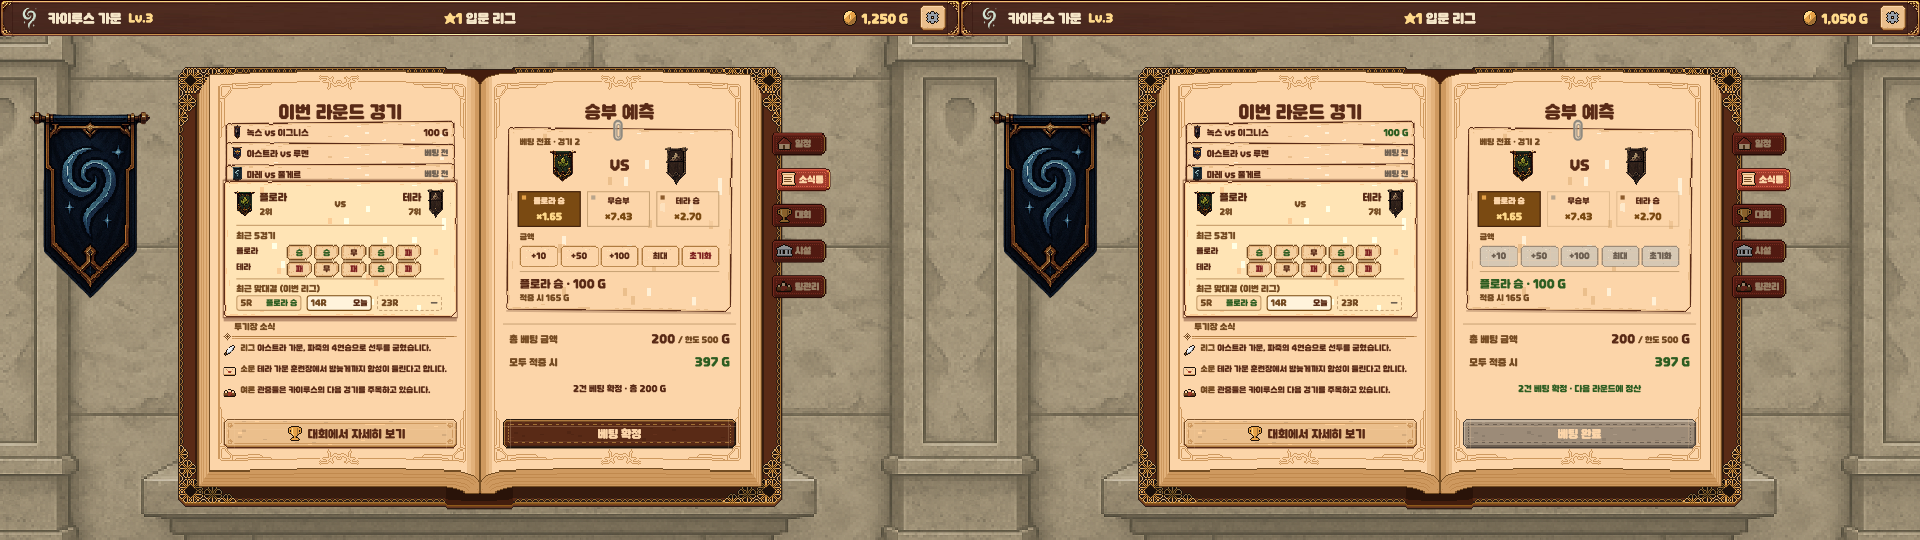
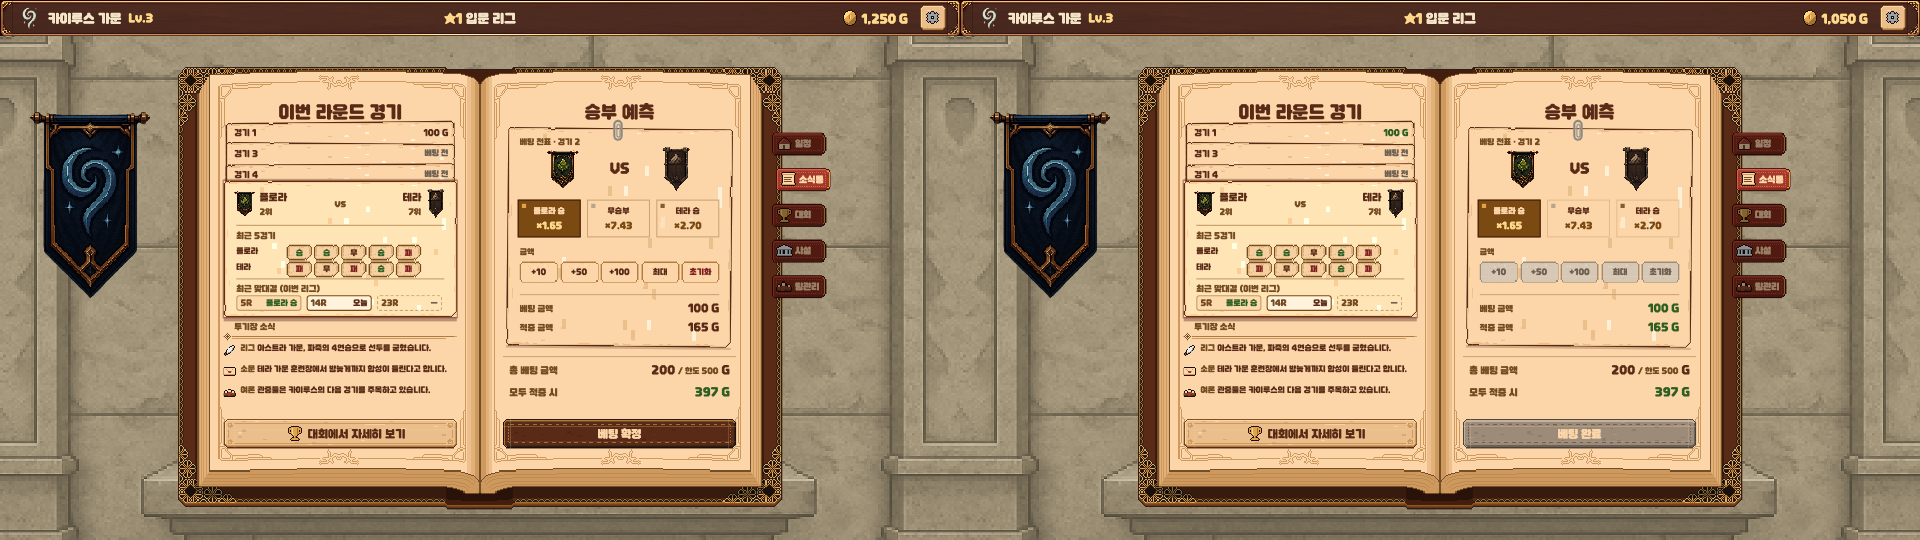
Docs: 소식통 시안 - 전표 확대·요약 두 줄, 합계 버튼 위로, 확정 문구 삭제, 카드 머리 경기 번호로

diff --git a/Docs/handover-mail/mockups/mail.html b/Docs/handover-mail/mockups/mail.html
@@ -101,7 +101,7 @@ function draw(){
   back.forEach((i,k)=>{const y=108+k*20,mm=M[i],q=trip(probs(mm));
     N('COLLO:02_panels/tooltip',L0+2,y,218,40,6,`transform:rotate(${[-0.6,0.5,-0.3][k]}deg);box-shadow:0 1px 0 rgba(89,42,22,.35)`);
     H+=`<div class="hit" data-i="${i}" style="left:${L0}px;top:${y}px;width:222px;height:20px"></div>`;
-    P(TEAM(mm[0]),L0+8,y+3,10,14,'object-fit:contain');T(L0+22,y+10,`${nm[mm[0]]} vs ${nm[mm[1]]}`,7.6,'ink','lm');
+    T(L0+10,y+10,(EN_?'Match ':'경기 ')+(i+1),7.6,'ink','lm');
     if(full(i)) T(L1-8,y+10,draft[i].stake+' G',7.6,confirmed?'win':'ink','rm'); else T(L1-8,y+10,EN_?'Open':'베팅 전',7.14,'gray','rm');});
   CL=anim=='card'?'cardin':'';
   const cy=164;N('COLLO:02_panels/tooltip',L0,cy,222,130,6,'filter:brightness(1.07);outline:1px solid rgba(89,42,22,.55);box-shadow:0 4px 0 rgba(62,17,9,.35),0 -2px 0 rgba(89,42,22,.18)');
@@ -137,36 +137,34 @@ function draw(){
   // ===== 오른쪽: 클립으로 꽂은 베팅 전표 (높이 축소) + 라운드 확정
   T(421,91,EN_?'Match Prediction':'승부 예측',16,'ink','ma');
   CL=anim=='card'?'tkin':'';
-  const ty=114, th=174, lock=confirmed;
+  const ty=114, th=208, lock=confirmed;
   N('COLLO:02_panels/tooltip',R0+4,ty,214,th,6,'transform:rotate(0.6deg);box-shadow:0 2px 0 rgba(89,42,22,.25)');
   T(R0+16,ty+10,(EN_?'BET SLIP · Match ':'베팅 전표 · 경기 ')+(mi+1),7.14,'ink2');
-  P(TEAM(a),R0+44,ty+18,26,36,'object-fit:contain');P(TEAM(b),R1-70,ty+18,26,36,'object-fit:contain');T(421,ty+36,'VS',12,'ink','mm');
-  [0,1,2].forEach(i=>{const x=R0+14+i*66,y=ty+60,sel=pick==i;BOX(x,y,60,34,sel?'#7a4a12':'rgba(252,213,169,.55)','border:1px solid '+(sel?'#3e1f0c':'#c9a476')+';box-sizing:border-box'+(lock&&!sel?';opacity:.5':''));
-    BOX(x+4,y+4,4,4,COL[i]);T(x+30,y+10,lab[i],7.14,sel?'cream':'ink','mm');T(x+30,y+24,'×'+od[i].toFixed(2),8,sel?'cream':'ink','mm',sel?'color:#ffd98a':'color:#7a4a12');
-    if(!lock)H+=`<div class="hit" data-pick="${i}" style="left:${x}px;top:${y}px;width:60px;height:34px"></div>`;});
+  P(TEAM(a),R0+42,ty+18,30,42,'object-fit:contain');P(TEAM(b),R1-72,ty+18,30,42,'object-fit:contain');T(421,ty+39,'VS',12,'ink','mm');
+  [0,1,2].forEach(i=>{const x=R0+14+i*66,y=ty+68,sel=pick==i;BOX(x,y,60,36,sel?'#7a4a12':'rgba(252,213,169,.55)','border:1px solid '+(sel?'#3e1f0c':'#c9a476')+';box-sizing:border-box'+(lock&&!sel?';opacity:.5':''));
+    BOX(x+4,y+4,4,4,COL[i]);T(x+30,y+11,lab[i],7.14,sel?'cream':'ink','mm');T(x+30,y+25,'×'+od[i].toFixed(2),8,sel?'cream':'ink','mm',sel?'color:#ffd98a':'color:#7a4a12');
+    if(!lock)H+=`<div class="hit" data-pick="${i}" style="left:${x}px;top:${y}px;width:60px;height:36px"></div>`;});
   const LIMIT=500, others=[0,1,2,3].filter(k=>k!=mi&&full(k)).reduce((s,k)=>s+draft[k].stake,0), room=Math.max(0,Math.min(LIMIT,GOLD)-others);
   // 금액: 라벨+현재 금액 한 줄, 버튼 5개(+10 +50 +100 최대 초기화)를 전표 안쪽 폭에 균등 배치
-  T(R0+16,ty+104,EN_?'Bet':'금액',7.14,'ink2','lm');
-  [['+10',10],['+50',50],['+100',100],[EN_?'Max':'최대','max'],[EN_?'Reset':'초기화','reset']].forEach(([lb,v],i)=>{const bw=36,gap=2.5,x=R0+16+i*(bw+gap),y=ty+112;
+  T(R0+16,ty+118,EN_?'Bet':'금액',7.14,'ink2','lm');
+  [['+10',10],['+50',50],['+100',100],[EN_?'Max':'최대','max'],[EN_?'Reset':'초기화','reset']].forEach(([lb,v],i)=>{const bw=36,gap=2.5,x=R0+16+i*(bw+gap),y=ty+127;
     const dis=lock||(v=='reset'?!stake:v=='max'?stake>=room:stake+v>room);
     N(dis?'01_buttons/btn_secondary_disabled':'01_buttons/btn_secondary_default',x,y,bw,20,[6,8,6,8]);
     T(x+bw/2,y+10,lb,7.14,dis?'gray':(v=='reset'?'lose':'ink'),'mm');
     if(!dis)H+=v=='reset'?`<div class="hit" data-act="reset" style="left:${x}px;top:${y}px;width:${bw}px;height:20px"></div>`:`<div class="hit" data-add="${v}" style="left:${x}px;top:${y}px;width:${bw}px;height:20px"></div>`;});
-  BOX(R0+16,ty+136,190,1,'#c9a476');
+  BOX(R0+16,ty+158,190,1,'#c9a476');
   const pay=pick>=0&&stake?Math.round(stake*od[pick]):0;
-  if(pay){T(R0+16,ty+143,`${lab[pick]} · ${stake} G`,10,bet?'win':'ink');T(R0+16,ty+159,EN_?`Pays ${pay} G`:`적중 시 ${pay} G`,7.14,'ink2');}
-  else if(stake&&pick<0&&!lock){T(R0+16,ty+143,(EN_?'Bet ':'금액 ')+stake+' G',10,'ink');T(R0+16,ty+159,EN_?'Circle a result':'결과에 동그라미를 치세요',7.14,'gray');}
-  else T(R0+16,ty+154,lock?(EN_?'Not bet this round':'이번 라운드 베팅 안 함'):(pick<0?(EN_?'Circle a result':'결과에 동그라미를 치세요'):(EN_?'Choose an amount':'금액을 고르세요')),7.6,'gray','lm');
+  const SL=(y,k,v,c)=>{T(R0+16,y,k,7.6,'ink2','lm');T(R1-16,y,v,9.5,c,'rm');};
+  if(stake||pay){SL(ty+172,EN_?'Bet amount':'베팅 금액',stake+' G',bet?'win':'ink');SL(ty+190,EN_?'Payout if hit':'적중 금액',pay?pay+' G':(EN_?'pick a result':'결과를 고르세요'),pay?(bet?'win':'ink'):'gray');}
+  else T(421,ty+181,lock?(EN_?'Not bet this round':'이번 라운드 베팅 안 함'):(EN_?'Pick a result and an amount':'결과와 금액을 고르세요'),7.6,'gray','mm');
   CL='';
   CLIP(R0+105,ty-8);
   // 라운드 합계 + 최종 확정
-  BOX(R0,300,222,1,'#c9a476');
-  T(R0+6,312,EN_?'Total bet':'총 베팅 금액',8.5,'ink2');T(R1-6,310,`${total} <span class="ink2" style="position:static;font-size:7.14px">/ ${EN_?'limit':'한도'} 500</span> G`,10,'ink','ra');
-  T(R0+6,334,EN_?'If all hit':'모두 적중 시',8.5,'ink2');T(R1-6,332,allWin+' G',10,'win','ra');
+  BOX(R0,331,222,1,'#c9a476');
+  T(R0+6,341,EN_?'Total bet':'총 베팅 금액',8.5,'ink2');T(R1-6,339,`${total} <span class="ink2" style="position:static;font-size:7.14px">/ ${EN_?'limit':'한도'} 500</span> G`,10,'ink','ra');
+  T(R0+6,362,EN_?'If all hit':'모두 적중 시',8.5,'ink2');T(R1-6,360,allWin+' G',10,'win','ra');
   const short=!confirmed&&total>Math.min(500,GOLD);
-  if(confirmed) T(421,358,EN_?`${picked.length} bets sealed · settled next round`:`${picked.length}건 베팅 확정 · 다음 라운드에 정산`,7.6,'win','ma');
-  else if(short) T(421,358,EN_?`Not enough gold · ${total-GOLD} G more needed`:`골드 부족 · ${total-GOLD} G 더 필요`,7.6,'lose','ma');
-  else T(421,358,picked.length?(EN_?`Confirm ${picked.length} bets · ${total} G total`:`${picked.length}건 베팅 확정 · 총 ${total} G`):(EN_?'Pick results on the slips':'전표에 결과와 금액을 고르세요'),7.6,picked.length?'ink':'gray','ma');
+  if(short) T(421,382,EN_?`Not enough gold · ${total-GOLD} G more`:`골드 부족 · ${total-GOLD} G 더 필요`,7.14,'lose','ma');
   const can=!confirmed&&!short&&picked.length>0;
   N(confirmed?'01_buttons/btn_primary_disabled':'01_buttons/btn_primary_default',R0,391,222,28,7,can||confirmed?'':'opacity:.55');
   T(421,405,confirmed?(EN_?'Bets placed':'베팅 완료'):(EN_?'Confirm bets':'베팅 확정'),10,'cream','mm');

diff --git a/Docs/handover-mail/README.md b/Docs/handover-mail/README.md
@@ -27,10 +27,10 @@ git pull
   - **전력 계산 변경(엄지원 님 코드, PR 리뷰 요청)**: `EnemyTeamService.GetTeamPower` = 용병마다 레벨×4 + 등급×6 + 장착 스킬 수×3 의 합. 전력은 라운드 후 적 가문 성장으로 자동 갱신되므로 별도 저장 불필요.
   - 결과 계산에 안 쓰이는 정보(최근 5경기·맞대결·순위·새 스킬)는 넣지 않음.
   - 아래: "대회에서 자세히 보기" 버튼 → BookPageId.League.
-- **오른쪽 = 클립으로 꽂은 베팅 전표**(높이 축소): 결과 3칸(배당 "×1.65"), 누르면 그 칸이 어둡게(진갈색 바탕 + 밝은 글자) / 금액은 **더하기 버튼 +10·+50·+100·최대 / 초기화** 5개(공통 UI 평평한 버튼 `btn_secondary_*`, 전표 안쪽 폭에 균등 배치, 누를 수 없으면 숨기지 않고 비활성 표시. 초기화 글자는 빨강) / "적중 시 n G".
+- **오른쪽 = 클립으로 꽂은 베팅 전표**(높이 축소): 결과 3칸(배당 "×1.65"), 누르면 그 칸이 어둡게(진갈색 바탕 + 밝은 글자) / 금액은 **더하기 버튼 +10·+50·+100·최대 / 초기화** 5개(공통 UI 평평한 버튼 `btn_secondary_*`, 전표 안쪽 폭에 균등 배치, 누를 수 없으면 숨기지 않고 비활성 표시. 초기화 글자는 빨강) / 요약 두 줄 "베팅 금액 : n G", "적중 금액 : n G".
   - **라운드 베팅 한도 500 G**(보유 골드와 한도 중 작은 값까지). 한도는 이후 **시설 업그레이드 페이지에서 증액** 예정 → PR에 명시.
-  - 왼쪽 카드 머리 상태: "베팅 전" / 베팅 금액만 "n G"(라운드마다 초기화되므로 '마감'·'봉인' 표시 없음). 우리 경기 베팅은 하지 않음(이기면 이미 보상). 결과+금액을 고르면 자동으로 **담음**(왼쪽 카드 머리 "담음 100 G", 경기별 저장).
-  - 페이지 아래: "총 베팅 금액", "모두 적중 시" 두 줄 → 그 위 문구 "n건 베팅 확정 · 총 n G" → 버튼 **"베팅 확정"**(담은 전표 전체를 한 번에 확정, 골드 차감). 봉인 그림은 쓰지 않음.
+  - 왼쪽 카드 머리: "경기 1~4" + 상태. 상태: "베팅 전" / 베팅 금액만 "n G"(라운드마다 초기화되므로 '마감'·'봉인' 표시 없음). 우리 경기 베팅은 하지 않음(이기면 이미 보상). 결과+금액을 고르면 자동으로 **담음**(왼쪽 카드 머리 "담음 100 G", 경기별 저장).
+  - 페이지 아래: "총 베팅 금액", "모두 적중 시" 두 줄(버튼 바로 위) → 버튼 **"베팅 확정"**. 골드 부족 시에만 버튼 위 경고(담은 전표 전체를 한 번에 확정, 골드 차감). 봉인 그림은 쓰지 않음.
   - **한 번 확정하면 그 라운드는 마감**(추가·취소 없음). 담은 총액 > 보유 골드면 버튼 비활성 + "골드 부족 · n G 더 필요".
   - 순이익 표시·무승부 안내·지난 결과/시즌 성적은 간소화를 위해 삭제.
 - **정산 알림**: 경기 후 소식통을 처음 열 때 지난 전표에 적중/빗나감 도장 + 합계.
